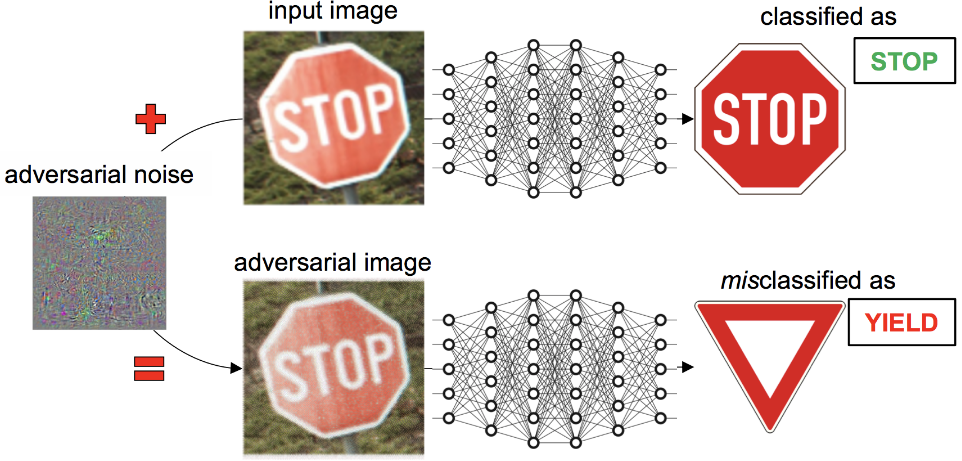
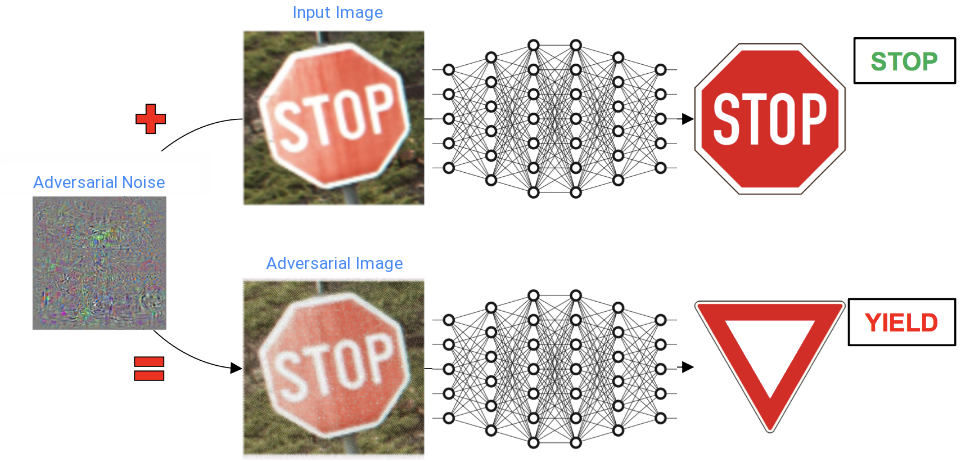
try themed image adversarial

diff --git a/_posts/2021-06-22-adversarial-attack.md b/_posts/2021-06-22-adversarial-attack.md
@@ -40,7 +40,7 @@ $$
 
 Although DNN have shown a great success to predict various complex tasks, some concerns have been raised about their safety and more particularly for the safety of the user since the pioneer work of {% include cite.html id="2014_Szegedy_C_p-iclr_ipnn"%} which has shown the existence of adversarial attacks. The most striking example is probably that of automated vehicles where malicious attacks could lead the car to take unwanted action with dramatic consequences.
 
-<img class="post-img" src="/images/posts/adversarial.png" alt="Adversarial attack"/>
+<img class="post-img-themed" src="/images/posts/adversarial.png" alt="Adversarial attack"/>
 
 
 
